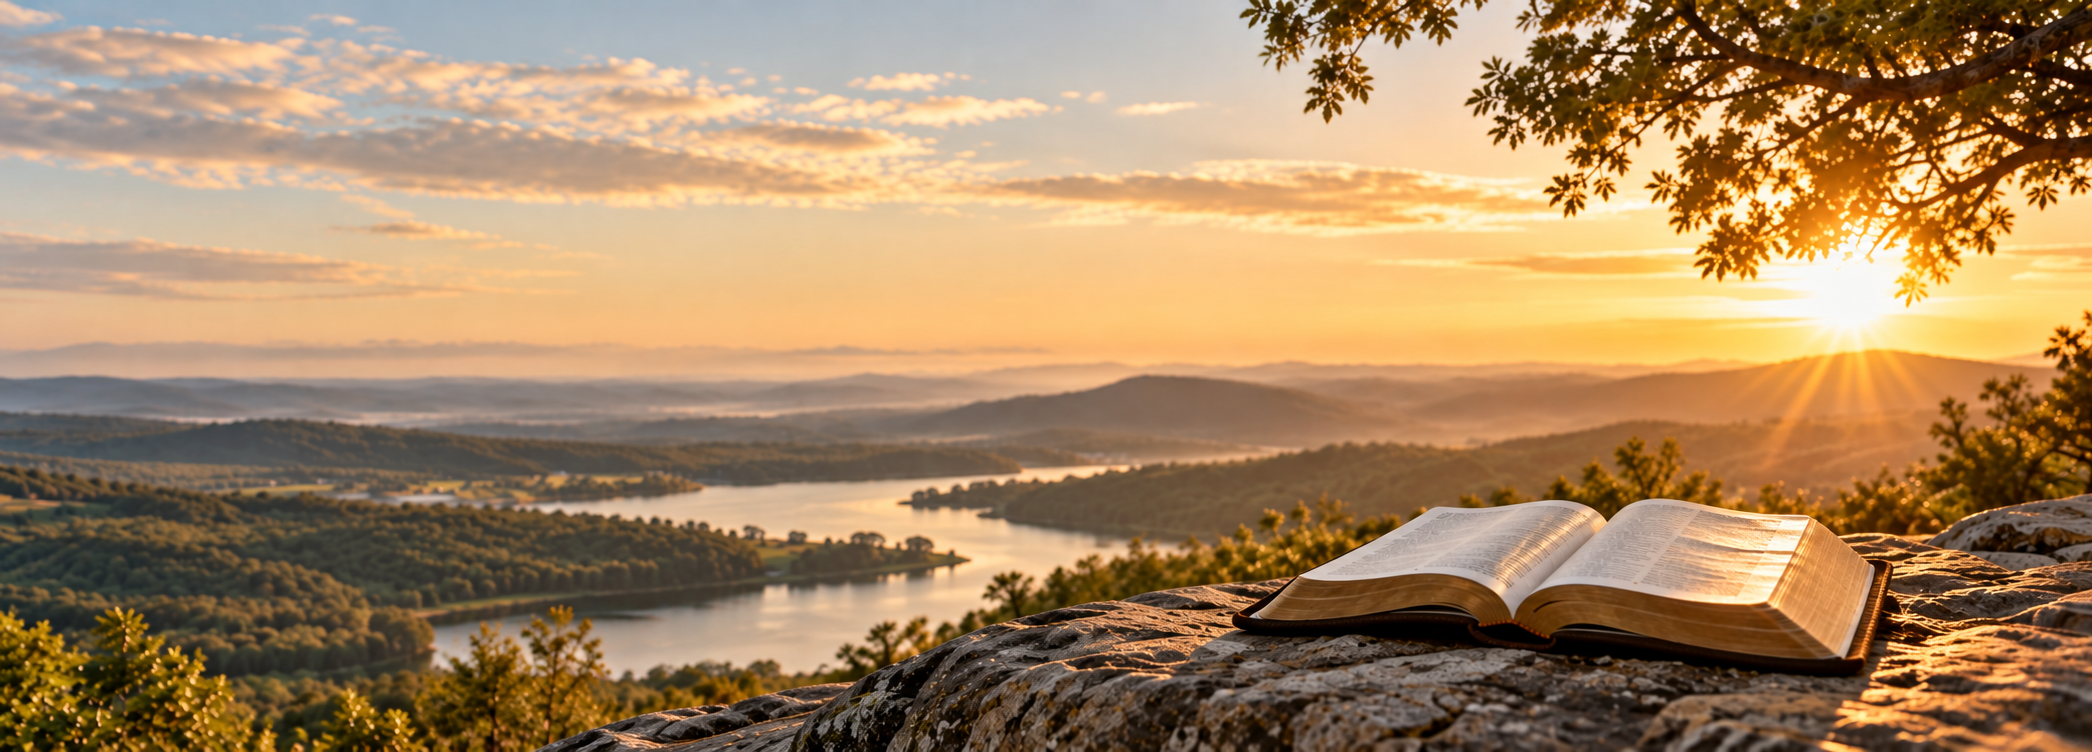
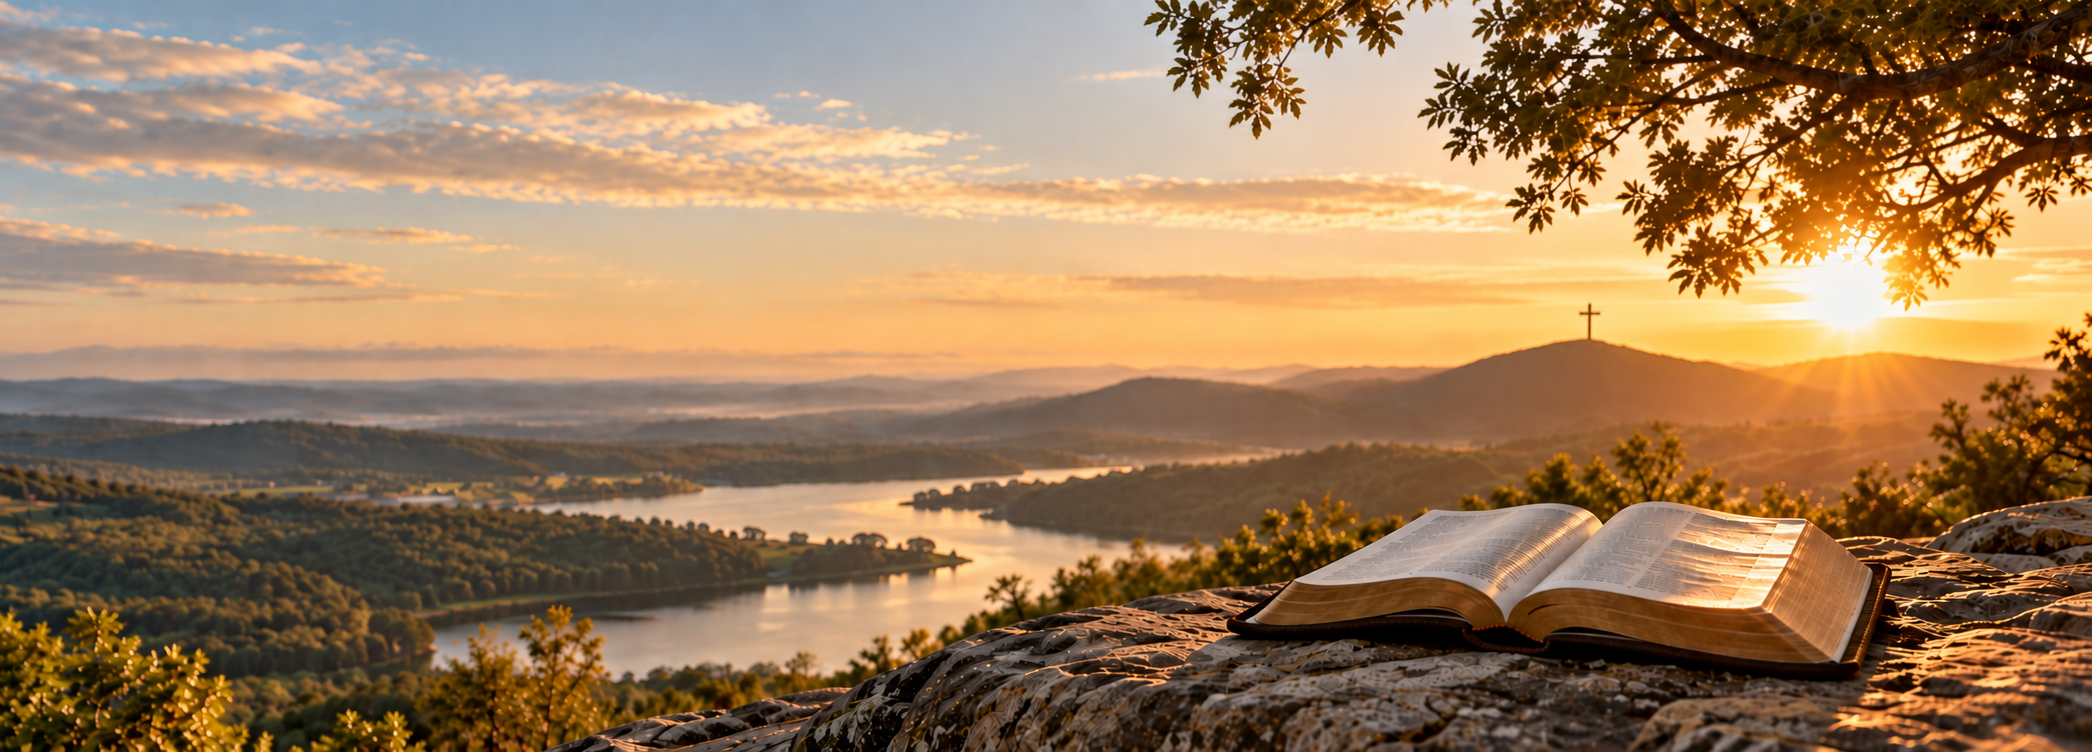
Homepage: swap hero image + header contrast fixes
New hero image with cross on the hill. Added a dark scrim across the
top of the hero so white header text is legible on both the cream left
side and the dark-leafed right side. Bumped subhead to 19px.

diff --git a/index.html b/index.html
@@ -48,6 +48,7 @@
       position: absolute;
       inset: 0;
       background:
+        linear-gradient(180deg, oklch(0.15 0.02 50 / 0.32) 0%, transparent 18%),
         linear-gradient(90deg, oklch(0.97 0.012 75 / 0.85) 0%, oklch(0.97 0.012 75 / 0.35) 42%, transparent 65%),
         linear-gradient(180deg, transparent 70%, oklch(0.97 0.012 75) 100%);
       pointer-events: none;
@@ -69,8 +70,9 @@
       font-size: 22px;
       font-weight: 600;
       letter-spacing: 0.01em;
-      color: var(--text);
+      color: oklch(0.99 0.005 75);
       text-decoration: none;
+      text-shadow: 0 1px 6px oklch(0.15 0.02 50 / 0.5);
     }
     .header-right {
       display: flex;
@@ -81,9 +83,9 @@
     .sign-in {
       font-size: 15px;
       font-weight: 500;
-      color: var(--text);
+      color: oklch(0.99 0.005 75);
       text-decoration: none;
-      text-shadow: 0 1px 4px oklch(0.97 0.012 75 / 0.75);
+      text-shadow: 0 1px 6px oklch(0.15 0.02 50 / 0.5);
     }
     .sign-in:hover { text-decoration: underline; }
 
@@ -171,7 +173,7 @@
       margin-bottom: 22px;
     }
     .hero-sub {
-      font-size: 17px;
+      font-size: 19px;
       font-weight: 500;
       line-height: 1.65;
       color: var(--hero-dark);
